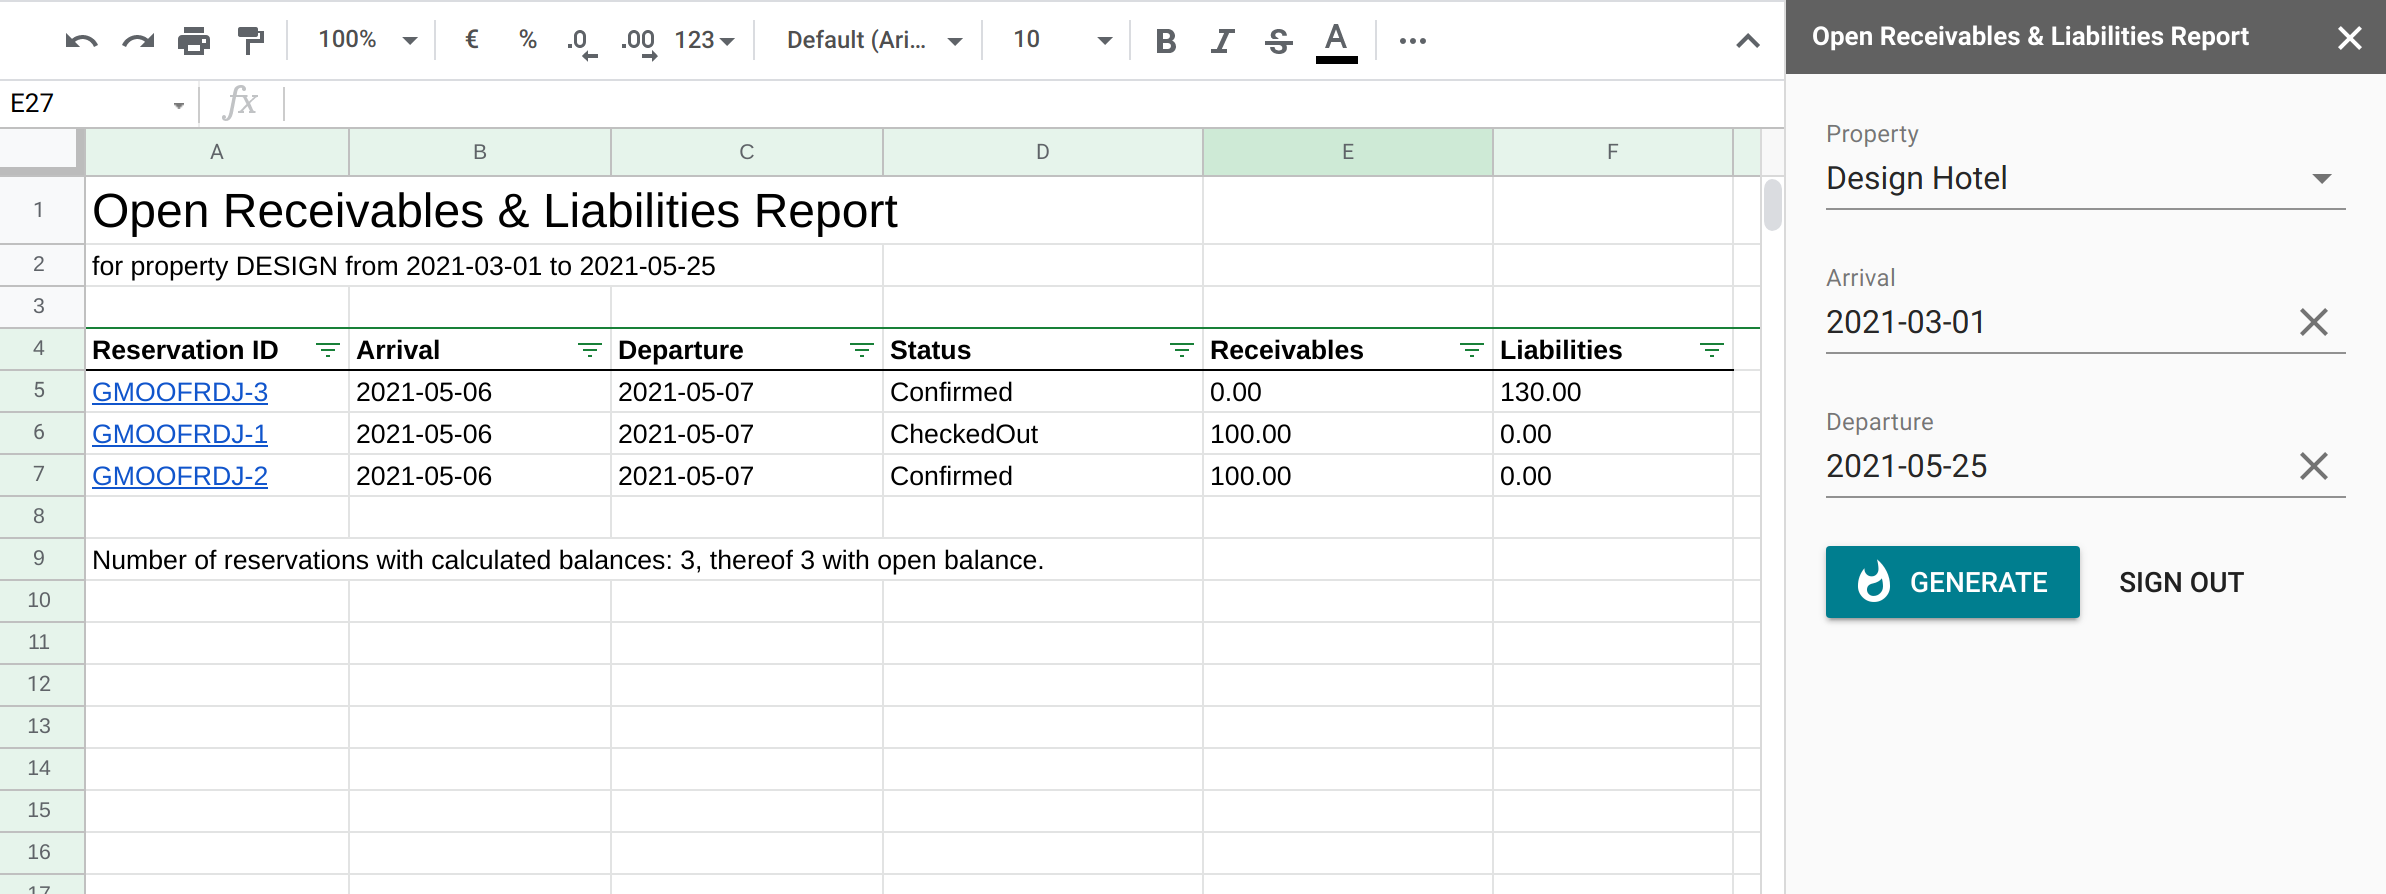
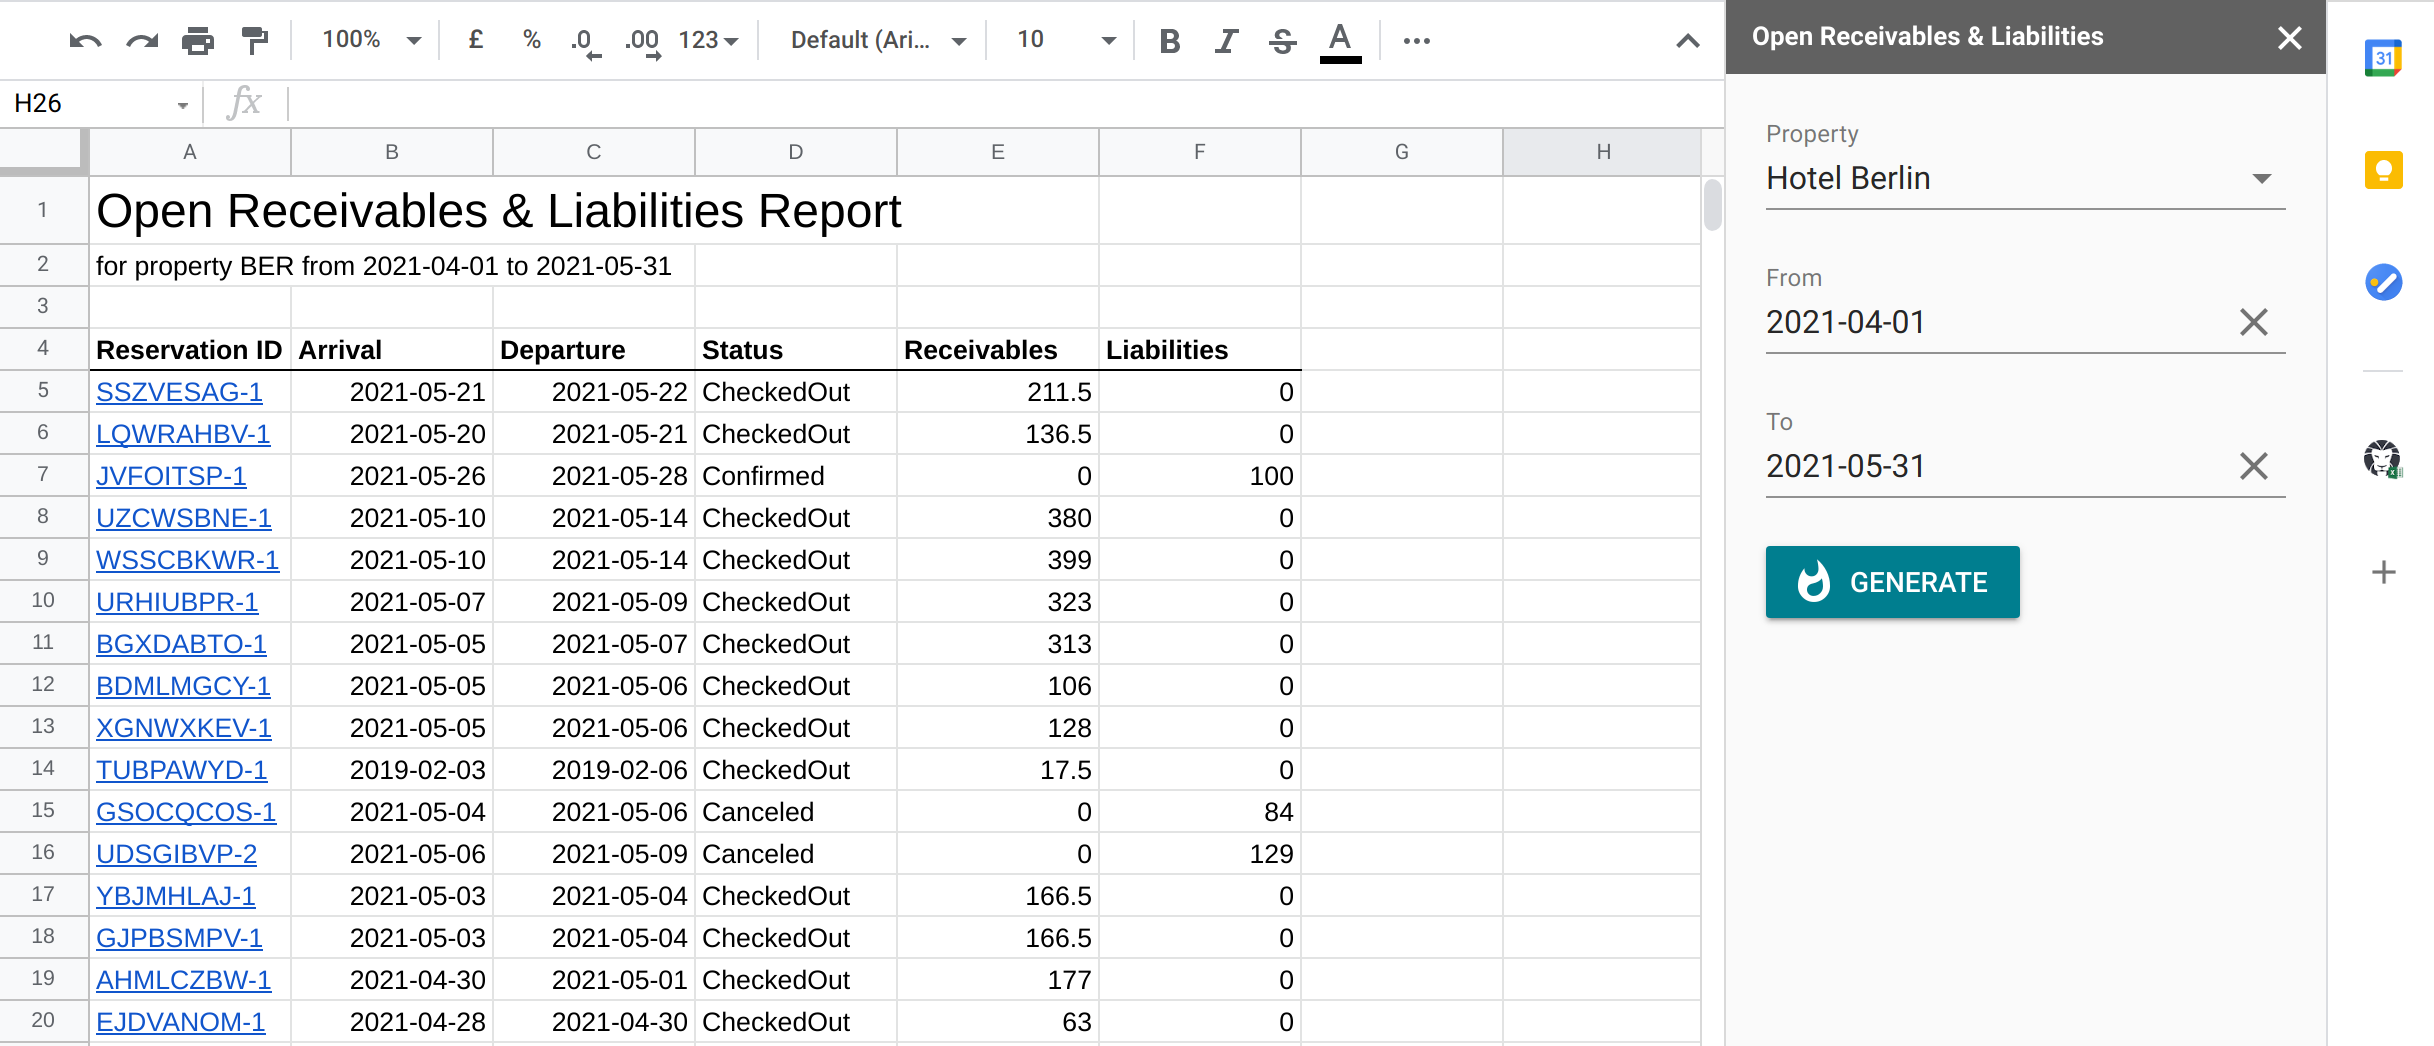
Readme update. + Small refactoring

diff --git a/src/Main.js b/src/Main.js
@@ -47,7 +47,21 @@ function openSidebar() {
   SpreadsheetApp.getUi().showSidebar(sidebar);
 }
 
-function generateReport(property, startDate, endDate) {
+/**
+ * Main function to generate "Open Receivables & Liabilities Report" (ORL Report).
+ * The report is based on the gross transaction list. Check {@link https://api.apaleo-staging.com/swagger/index.html?urls.primaryName=Reports%20NSFW|Apaleo API} for references.
+ * This function is triggered from the UI side (Sidebar component - SidebarScript.html):
+ * @example
+ * submit() {
+ *      ...
+ *      scriptService
+ *         .generateORLReport(property, arrivalStr, departureStr)
+ *
+ * @param {String} property Property code
+ * @param {String} startDate The start date for the gross transactions list in the YYYY-MM-DD format.
+ * @param {String} endDate The end date for the gross transactions list in the YYYY-MM-DD format
+ */
+function generateORLReport(property, startDate, endDate) {
   const datasheet = SpreadsheetApp.getActiveSheet();
 
   const firstCell = datasheet.getRange(1, 1);

diff --git a/src/SidebarScript.html b/src/SidebarScript.html
@@ -26,8 +26,8 @@
           user: undefined,
           properties: [],
           selectedProperty: undefined,
-          arrivalDate: undefined,
-          departureDate: undefined,
+          from: undefined,
+          to: undefined,
           inProgress: false
         }
       },
@@ -69,14 +69,14 @@
         },
 
         submit() {
-          const arrivalStr = getIsoDate(this.arrivalDate);
-          const departureStr = getIsoDate(this.departureDate);
           const property = this.selectedProperty;
+          const fromStr = getIsoDate(this.from);
+          const toStr = getIsoDate(this.to);
 
           this.inProgress = true;
 
           scriptService
-            .generateReport(property, arrivalStr, departureStr)
+            .generateORLReport(property, fromStr, toStr)
             .then(() => this.inProgress = false)
             .catch((e) => this.onError(e));
         },

diff --git a/src/Sidebar.html b/src/Sidebar.html
@@ -34,13 +34,13 @@
           </md-field>
         </div>
         <div class="row">
-          <md-datepicker v-model="arrivalDate" md-immediately>
-            <label>Arrival</label>
+          <md-datepicker v-model="from" md-immediately>
+            <label>From</label>
           </md-datepicker>
         </div>
         <div class="row">
-          <md-datepicker v-model="departureDate" md-immediately>
-            <label>Departure</label>
+          <md-datepicker v-model="to" md-immediately>
+            <label>To</label>
           </md-datepicker>
         </div>
         <div class="row">

diff --git a/Readme.md b/Readme.md
@@ -2,17 +2,42 @@
 
 A Google Sheet Add-on that creates custom reports using [apaleo API](https://api.apaleo.com/swagger/index.html).
 
-## Reports
+## Open Receivables & Liabilities Report
 
-- Open Receivables & Liabilities Report. Area of application: Accounting. This report shows reservations with the non-zero balance on the receivables or liabilities account. This report is build on top of the list of gross transactions for all reservations in the selected property (hotel) which period of stay lies between the specified arrival (start) and departure (end) date.
+Area of application: **Accounting**. This report shows reservations with the non-zero balance on the receivables or liabilities account. This report is build on top of the list of gross transactions for all reservations in the selected property (hotel) which period of stay lies between the specified "from" and "to" dates.
 
 ![Open Receivables & Liabilities Report](./images/OpenRnLReport.png)
 
 ## Authorization
 
-This add-on implements [OAuth 2.0 Authorization code grant flow](https://apaleo.dev/guides/start/oauth-connection/auth-code-grant) with the help of [Google OAuth2 library for Apps Script](https://github.com/googleworkspace/apps-script-oauth2) to retrieve authorization tokens to access apaleo API.
+This add-on uses [Google OAuth2 library for Apps Script](https://github.com/googleworkspace/apps-script-oauth2) for authorization in apaleo and can work in two modes:
+- [Authorization code grant flow](https://apaleo.dev/guides/start/oauth-connection/auth-code-grant) - when you install this add-on from the [Google Workspace Marketplace](https://workspace.google.com/u/0/marketplace).
+- [Client credentials grant flow](https://apaleo.dev/guides/start/oauth-connection/client-credentials-grant) - when you fork this repo and develop a custom report on its base.
 
-After authorization is complete the add-on asks the apaleo [apaleo Identity Server API](https://identity.apaleo.com/swagger/index.html) for the current user's profile to determine which properties the user has access to. That's why the `identity:account-users.read` scope is required.
+
+### Authorization code grant flow
+
+To authorize in apaleo after the add-on is downloaded and installed from the Google Workspace Marketplace open the sidebar through the Add-ons menu and simply click on the "Sign in" button:
+
+![Add-ons menu](./images/menu1.png)
+
+![Add-ons menu](./images/sign-in.png)
+
+If the user installs the add-on in the first time, then he will see the apaleo consent screen with the request for accessing data in apaleo:
+
+![Add-ons menu](./images/consentScreen.png)
+
+After authorization is completed the add-on will ask the [apaleo Identity Server API](https://identity.apaleo.com/swagger/index.html) for the current user's profile to determine which properties (hotels) the user has access to.
+
+
+### Client credentials grant flow
+
+This authorization mode works when users fork this repo and publish this code to their own Google App Script project. Read more below how to do it. With this mode in order to authorize in apaelo users have to create credentials in apaleo and provide Client ID and Client Secret through the Add-ons menu:
+
+![Auth menu](./images/authMenu.png)
+
+Read apaleo guides to learn how to creat credentials for a simple client:
+https://apaleo.dev/guides/start/oauth-connection/register-app#register-the-oauth-simple-client-application
 
 ## Requesting data
 
@@ -40,29 +65,81 @@ to communicate between tabs / windows. Specifically, the callback page sends a
 message to the sidebar letting it know when the authorization flow has
 completed, so it can start updating its contents.
 
-# How to contribute?
 
-We plan to gradually expand this add-on with new reports based on the customer's needs.  But nothing can stop you from forking this repo and adding your own report.
+# How can I create my own report?
 
-## Setup
+This code is published under the [MIT License](blob/master/LICENSE) and it means that nothing can stop you from copying this repo, modifying the code and creating your own report. And you can do it manually or using the terminal.
 
-1. Fork the project
-2. `yarn`
-3. ``
+## Manually
 
-We assume that you know how to develop fron-end applications and you have `yarn` installed.
+1. Create a new Google Sheet file using your google account.
+2. Open the Script editor through the "Tools" >> "Script editor" menu in the new newly created google sheet file.
+3. Copy the content of all files (except appsscript.json) from the `/src` directory to the Apps Script project.
+4. Save the project.
+5. Add the [Google OAuth2 library](https://github.com/googleworkspace/apps-script-oauth2) to the project. Libraries section is under the files in the Script editor. Library's Script ID is: `1B7FSrk5Zi6L1rSxxTDgDEUsPzlukDsi4KGuTMorsTQHhGBzBkMun4iDF`
+6. Run the `onOpen` function from the `Main.js` file in the Script editor.
 
-## How can I create my own report?
+## Using Terminal
 
-The simplest way to extend the functionality
+### Prerequisites:
+- git
+- yarn (or npm)
 
+```sh
+# Clone this repo
+git clone https://github.com/apaleo/google-sheet-addon.git apaleo-google-sheet-addon
+cd apaleo-google-sheet-addon
 
+# Install the dependencies
+yarn install
 
+# Authorize Clasp in your google account. Clasp is an official Google CLI for Apps Script projects.
+# See the https://github.com/google/clasp for more info.
+yarn clasp login
 
+# Remove artifacts of the apaleo add-on's project
+rm .clasp.json
 
+# Create a new Apps Script project attached to a Spreadsheet.
+yarn clasp create --type sheets --rootDir ./src --title THE_NAME_OF_THE_PROJECT
+# After this command is done you'll see in the terminal the following output:
+#
+# Created new Google Sheet: https://drive.google.com/open?id=1L8******
+# Created new Google Sheets Add-on script: https://script.google.com/d/1PGj******
+# Done in 17.92s.
+```
 
+Open the fist link in the browser - the link to the new Google Sheet. Then execute the last command:
 
+```sh
+# Push files form ./src dir to apps script project
+yarn clasp push
+```
 
+Return to the google sheet in the browser and open the Script editor via "Tools" >> "Script editor" menu. You should see all project files pushed to the editor together with the connected Google OAuth2 library.
 
+Now you can run the `onOpen` function from the `Main.js` file in the Script editor.
 
+## Troubleshooting
 
+If you see `Exception: Cannot call SpreadsheetApp.getUi() from this context.` error in the execution log running `onOpen` function from the `Main.js`:
+
+![Cannot call SpreadsheetApp.getUi() from this context](./images/error.png)
+
+Most likely you have the Google Sheet document closed and you need to open it. Once you did it reopen also the Script editor through the "Tools" >> "Script editor" menu.
+
+# How can I contribute?
+
+This add-on is a non-commercial project with the open-source code, which goal is to ease the hoteliers life with the additional reports built using open API of the apaleo Platform. And we'd welcome any feedback, improvement or suggestion. To start the contribution:
+
+1. Fork this repository.
+2. Clone the forked repository to your machine.
+3. Now create a branch.
+4. Make necessary changes and commit those changes.
+5. Submit your changes for review: go to your repository on GitHub, you'll see a `Compare & pull request` button. Click on that button.
+6. Congrats! You just completed the standard fork -> clone -> edit -> pull request workflow that you'll encounter often as a contributor!
+7. Celebrate your contribution and share it with your friends and followers!
+
+# License
+
+[MIT License](blob/master/LICENSE)
